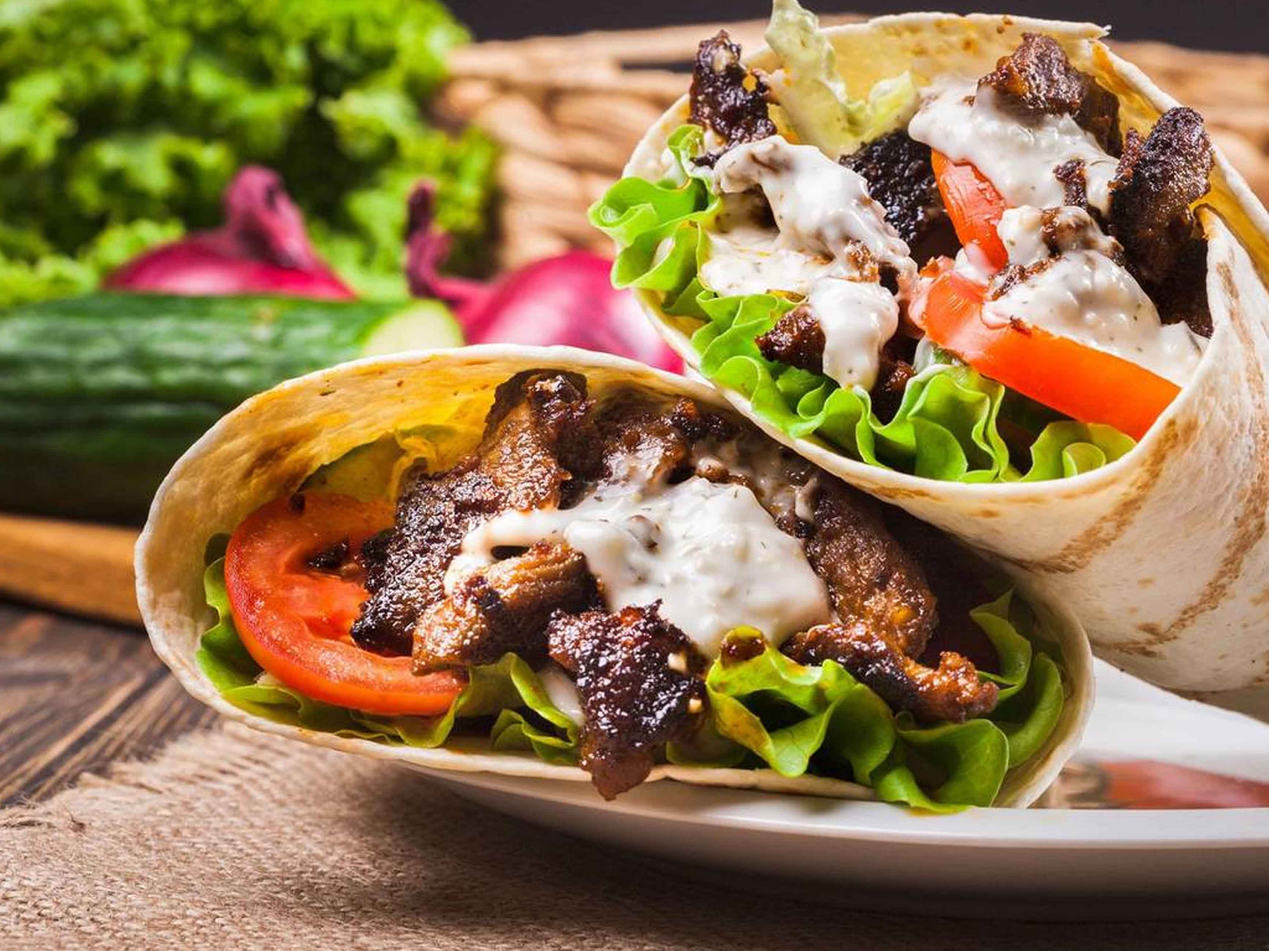
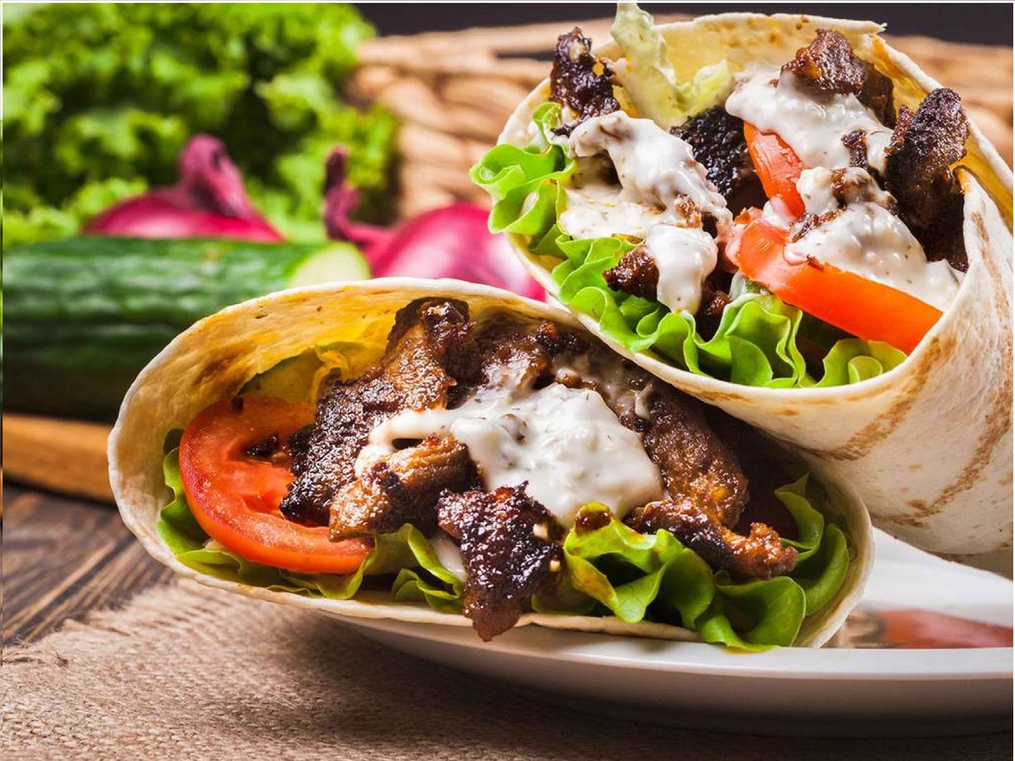
home

diff --git a/src/app/home/home.page.html b/src/app/home/home.page.html
@@ -1,9 +1,38 @@
 <ion-content>
    
   <ion-searchbar (ionInput)="getItems($event)"> </ion-searchbar>
-    <div style="text-align: center;">
-      <img src="/assets/beranda.jpeg" alt="" style="width: 100%; position: relative; padding-top: 10px;"/>
-  </div>
+    <ion-slides pager>
+
+    <ion-slide>
+      <ion-card color="light">
+        <img src="/assets/beranda.jpeg" alt="" style="background: rgb(255, 196, 0);"/>
+        <ion-card-content>Promo Seru Akhir Tahun!!!</ion-card-content>
+      </ion-card>
+    </ion-slide>
+
+    <ion-slide>
+      <ion-card color="light">
+        <img src="/assets/k3.bmp" alt="" style="background: rgb(255, 196, 0);"/>
+        <ion-card-content>Bakso Bakar dengan Hati</ion-card-content>
+      </ion-card>
+    </ion-slide>
+    
+    <ion-slide>
+      <ion-card color="light">
+        <img src="/assets/k5.jpg" alt="" style="background: rgb(255, 196, 0);"/>
+        <ion-card-content>Kebab Cinta Segitiga</ion-card-content>
+      </ion-card>
+    </ion-slide>
+  
+    <ion-slide>
+      <ion-card color="light">
+        <img src="/assets/k1.gif" alt="" style="background: rgb(255, 196, 0);"/>
+        <ion-card-content>Burger Asik Sendiri</ion-card-content>
+      </ion-card>
+    </ion-slide>
+    
+  </ion-slides>
+  
   
   <ion-card color="light">
     <ion-card-content>
@@ -73,31 +102,6 @@
     <ion-label>K-LIMA Hot Products</ion-label>
   </ion-item-divider>
 
-  <ion-slides pager>
-
-    <ion-slide>
-      <ion-card color="light">
-        <img src="/assets/k3.bmp" alt="" style="background: rgb(255, 196, 0);"/>
-        <ion-card-content>Bakso Bakar dengan Hati</ion-card-content>
-      </ion-card>
-    </ion-slide>
-    
-    <ion-slide>
-      <ion-card color="light">
-        <img src="/assets/k2.jpg" alt="" style="background: rgb(255, 196, 0);"/>
-        <ion-card-content>Kebab Cinta Segitiga</ion-card-content>
-      </ion-card>
-    </ion-slide>
-  
-    <ion-slide>
-      <ion-card color="light">
-        <img src="/assets/k1.gif" alt="" style="background: rgb(255, 196, 0);"/>
-        <ion-card-content>Burger Asik Sendiri</ion-card-content>
-      </ion-card>
-    </ion-slide>
-    
-  </ion-slides>
-
   
   <ion-list>
     <h6 style="padding-left: 15px;">Jajanan Terhits ini dekat dengan daerahmu !!</h6>
@@ -161,6 +165,11 @@
         <p>Burger Mini the pooh</p>
       </ion-label>
     </ion-item>
+	
+	   <div style="text-align: center;">
+      <img src="/assets/beranda.jpeg" alt="" style="width: 100%; position: relative; padding-top: 10px;"/>
+  </div>
+  
   </ion-list>
 
 </ion-content>

diff --git a/src/app/list/list.page.spec.ts b/src/app/list/list.page.spec.ts
@@ -1,20 +1,20 @@
 import { async, ComponentFixture, TestBed } from '@angular/core/testing';
 import { IonicModule } from '@ionic/angular';
 
-import { ListPage } from './list.page';
+import { ListPage } from './notifkasi.page';
 
-describe('ListPage', () => {
+describe('NotifkasiPage', () => {
   let component: ListPage;
   let fixture: ComponentFixture<ListPage>;
   let listPage: HTMLElement;
 
   beforeEach(async(() => {
     TestBed.configureTestingModule({
-      declarations: [ ListPage ],
+      declarations: [ NotifkasiPage ],
       imports: [IonicModule.forRoot()]
     }).compileComponents();
 
-    fixture = TestBed.createComponent(ListPage);
+    fixture = TestBed.createComponent(NotifkasiPage);
     component = fixture.componentInstance;
     fixture.detectChanges();
   }));
@@ -24,8 +24,8 @@ describe('ListPage', () => {
   });
 
   it('should have a list of 10 elements', () => {
-    listPage = fixture.nativeElement;
-    const items = listPage.querySelectorAll('ion-item');
+    notifkasiPage = fixture.nativeElement;
+    const items = notifkasiPage.querySelectorAll('ion-item');
     expect(items.length).toEqual(10);
   });
 

diff --git a/src/app/list/list.page.html b/src/app/list/list.page.html
@@ -10,7 +10,7 @@
 </ion-header>
 
 <ion-content>
-<ion-list>
+<ion-notifikasi>
   <ion-item>
     <ion-avatar item-start>
       <img src="k1.gif">
@@ -19,7 +19,7 @@
     <h3>Don't Know What To Do!</h3>
     <p>I've had a pretty messed up day. If we just...</p>
   </ion-item>
-</ion-list>
+</ion-notifkasi>
   <!--
     <div *ngIf="selectedItem" padding>
       You navigated here from <b>{{selectedItem.title }}</b>

diff --git a/src/app/app.component.ts b/src/app/app.component.ts
@@ -17,15 +17,15 @@ export class AppComponent {
       icon: 'home'
     },
     {
-      title: 'List',
-      url: '/list',
-      icon: 'list'
+      title: 'Notifikasi',
+      url: '/notifikasi',
+      icon: 'notifications-outline'
     }
 	,
     {
       title: 'Logout',
       url: '/login',
-      icon: 'arrow-round-back'
+      icon: 'log-out'
     }
   ];
 
